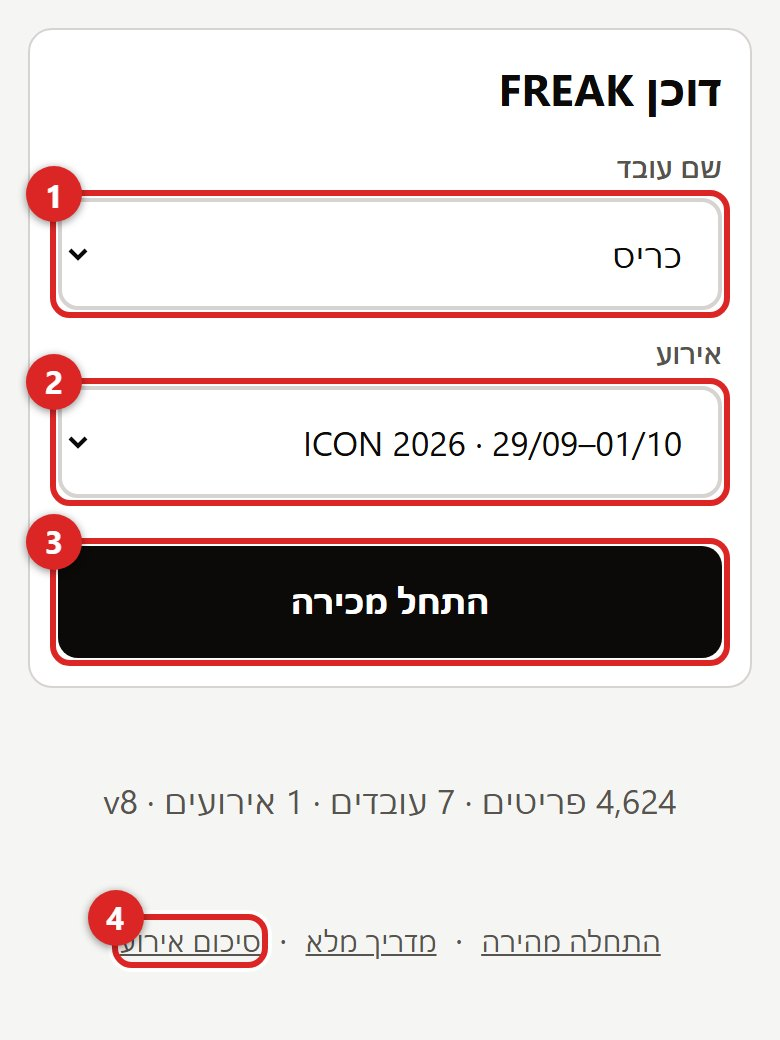
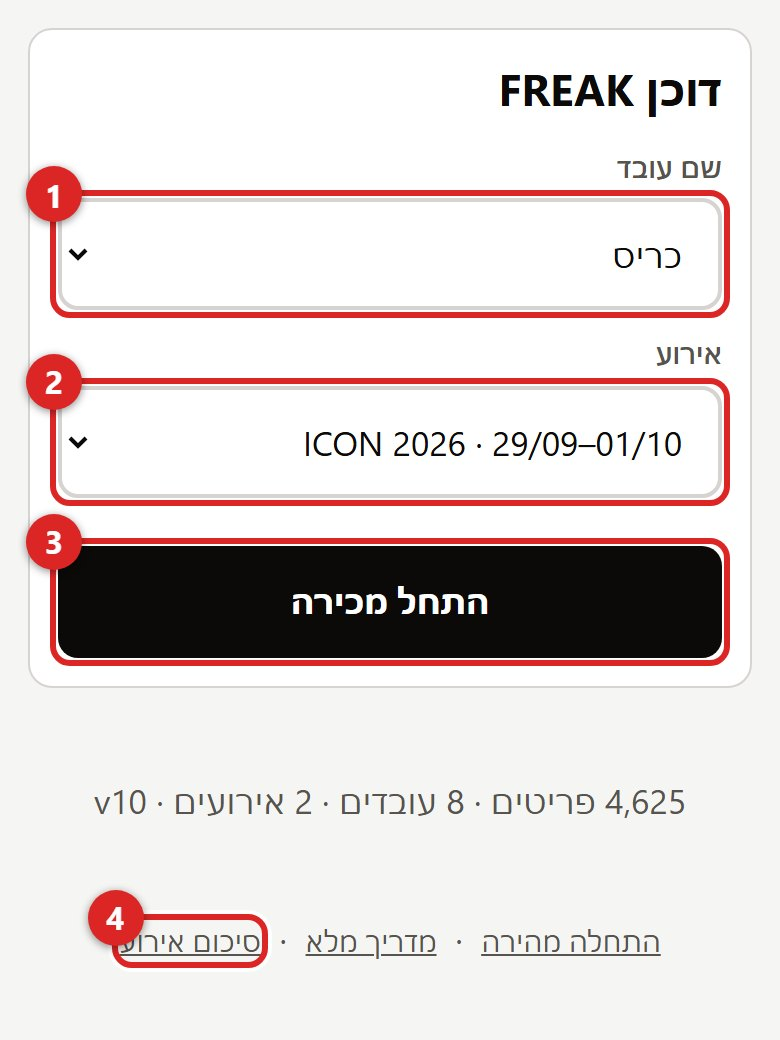
v10: guide chapter on corrections; the till retries its catalog patiently
- guide.html: new section 12 (find the sale, the three options, the return form) with
  three pictures; troubleshooting is now 13; a pointer from the main-screen and payment
  sections; quickstart.html gains the same pointer
- index.html: the catalog also carries the staff and event lists, so it is now retried
  in the background (8/20/45/60 s) with a plain status line instead of one 8 s attempt:
  a phone opened during a slow spell still gets today's events; BUILD v10, cache v10
- guide pictures regenerated (main screen shows the corrections button)
- README: the three new tabs and the corrections history

Changed region(s): [[0.2154, 0.7385, 0.8923, 0.8], [0.1231, 0.7385, 0.1846, 0.8]]

diff --git a/guide.html b/guide.html
@@ -86,7 +86,8 @@
         <li><a href="#s9">מה אומר הכפתור הצבעוני</a></li>
         <li><a href="#s10">להחליף עובד או אירוע</a></li>
         <li><a href="#s11">סוף האירוע (מנהלים)</a></li>
-        <li><a href="#s12">תקלות ופתרונות</a></li>
+        <li><a href="#s12">תיקון מכירה</a></li>
+        <li><a href="#s13">תקלות ופתרונות</a></li>
       </ol>
     </nav>
 
@@ -122,6 +123,7 @@
         <li><b>מצלמת הטלפון:</b> <kbd>הפעל מצלמה</kbd> (סעיף 4).</li>
         <li>הכפתור הצבעוני מראה אם המכירות נשלחו (סעיף 9).</li>
         <li>לחיצה על שם האירוע חוזרת למסך הפתיחה (סעיף 10).</li>
+        <li><b>טעות במכירה שכבר נסגרה?</b> <kbd>מכירות אחרונות · תיקון תשלום · החזרה</kbd> (סעיף 12).</li>
       </ol>
       <figure><img src="./guide/03-search.jpg" alt="חיפוש לפי שם"><figcaption>חיפוש לפי שם, ברקוד או קוד פריט</figcaption></figure>
       <ol class="steps">
@@ -195,6 +197,7 @@
         <li>מאוזן → <kbd>סיים מכירה</kbd>.</li>
       </ol>
       <p class="warn"><b>"אחר"</b> (ביט, העברה, החלפה, זיכוי) מחייב פירוט בשדה שנפתח. בלי פירוט אי אפשר לסיים.</p>
+      <p class="tip">הלקוח התחרט על אמצעי התשלום אחרי שסיימתם? לא מקלידים שוב. מתקנים את המכירה (סעיף 12).</p>
       <p class="tip">האשראי נסלק במסופון כרגיל. הקופה רק רושמת שהתשלום היה באשראי.</p>
     </section>
 
@@ -242,7 +245,34 @@
     </section>
 
     <section id="s12">
-      <h2><span class="n">12</span>תקלות ופתרונות</h2>
+      <h2><span class="n">12</span>תיקון מכירה: תשלום, החזרה, ביטול</h2>
+      <p class="lead">הלקוח שילם בסוף בדרך אחרת, החזיר מוצר, או שמכירה הוקלדה פעמיים. לא מקלידים מכירה חדשה: מתקנים את המקורית. שום דבר לא נמחק, וכל תיקון נרשם עם שם ושעה.</p>
+      <figure><img src="./guide/13-fix-list.jpg" alt="רשימת המכירות עם כפתור תיקון"><figcaption>רשימת המכירות. מהקופה מגיעים אליה בכפתור "מכירות אחרונות · תיקון תשלום · החזרה"</figcaption></figure>
+      <ol class="steps">
+        <li>מחפשים את המכירה לפי שם פריט, סכום או שעה. אפשר לבחור יום אחר או אירוע אחר, גם אירוע שכבר נגמר.</li>
+        <li>לוחצים <kbd>תיקון</kbd> ליד המכירה.</li>
+      </ol>
+      <figure><img src="./guide/14-fix-menu.jpg" alt="חלון התיקון"><figcaption>שלוש אפשרויות</figcaption></figure>
+      <ol class="steps">
+        <li>בוחרים מי מבצע את התיקון.</li>
+        <li><b>שינוי אמצעי תשלום:</b> הסכום נשאר. מחלקים אותו מחדש בין מזומן, אשראי ואחר.</li>
+        <li><b>החזרת מוצר:</b> בתמונה הבאה.</li>
+        <li><b>ביטול:</b> למכירה שהוקלדה בטעות או פעמיים. מבטלים את העותק המיותר. הוא נשאר רשום אבל לא נספר.</li>
+      </ol>
+      <figure><img src="./guide/15-fix-return.jpg" alt="החזרת מוצר"><figcaption>החזרת מוצר</figcaption></figure>
+      <ol class="steps">
+        <li>מסמנים כמה יחידות חזרו מכל פריט.</li>
+        <li>חזר למדף, או פגום ולא חזר למלאי.</li>
+        <li>מתי זה קרה: עכשיו, או תאריך אחר אם מתקנים בדיעבד.</li>
+        <li>איך הלקוח קיבל את הכסף: מזומן, זיכוי באשראי במסופון, או אחר (קרדיט חנות, ביט) עם פירוט.</li>
+        <li>שומרים. ההכנסות, המזומן והאשראי של אותו יום מתעדכנים, והפריט יורד מרשימת הכספיט אם חזר למדף.</li>
+      </ol>
+      <p class="tip">טעיתם בהחזרה? פותחים שוב <kbd>תיקון</kbd> על אותה מכירה ולוחצים <kbd>בטל את ההחזרה הזו</kbd>.</p>
+      <p class="warn">את הזיכוי בכרטיס האשראי עצמו עושים במסופון. כאן רק רושמים שהוא נעשה.</p>
+    </section>
+
+    <section id="s13">
+      <h2><span class="n">13</span>תקלות ופתרונות</h2>
       <table>
         <tr><th>מה קורה</th><th>מה עושים</th></tr>
         <tr><td>המצלמה לא נפתחת: "אין הרשאה"</td><td>בכרום: המנעול ליד הכתובת → הרשאות → מצלמה → אפשר. באייפון: הגדרות → ספארי → מצלמה → אפשר. אם זה לא עוזר מהאייקון, פתחו את הכתובת בספארי.</td></tr>
@@ -250,6 +280,7 @@
         <tr><td>הסריקה לא תופסת</td><td><kbd>החלף מצלמה</kbd>; התרחקו ל-20 ס״מ והגבירו זום; נקו את העדשה; פנס בחושך. בינתיים: אקדח ברקוד או חיפוש לפי שם.</td></tr>
         <tr><td>ברקוד נסרק אבל "פריט לא מזוהה"</td><td>חפשו לפי שם. אם אין: הזנה ידנית עם המחיר מהמדבקה (סעיף 6).</td></tr>
         <tr><td>המחיר במסך שונה מהמדבקה</td><td>הקלידו את המחיר הנכון בשדה המחיר. השינוי מסומן ומדווח.</td></tr>
+        <tr><td>הלקוח שילם אחרת, החזיר מוצר, או שמכירה הוקלדה פעמיים</td><td>לא מקלידים מכירה חדשה. מתקנים את המכירה המקורית (סעיף 12).</td></tr>
         <tr><td>"ממתין" הרבה זמן</td><td>לחצו על הכפתור. אם אין קליטה, זה ישלח לבד אחר כך. אל תמחקו כלום.</td></tr>
         <tr><td>"טוקן שגוי"</td><td>סגרו ופתחו את האפליקציה כדי לקבל עדכון. אם נשאר: למנהל.</td></tr>
         <tr><td>המסך "קפא"</td><td>סגרו ופתחו את האפליקציה. הסל והמכירות שממתינות נשמרים בטלפון.</td></tr>

diff --git a/index.html b/index.html
@@ -367,8 +367,8 @@ function fetchT(url, opts, ms) {
   return fetch(url, { ...opts, signal: ctl.signal }).finally(() => clearTimeout(t));
 }
 
-async function apiGet(action) {
-  const res = await fetchT(`${API_URL}?action=${encodeURIComponent(action)}&token=${encodeURIComponent(TOKEN)}`, {}, 8000);
+async function apiGet(action, ms) {
+  const res = await fetchT(`${API_URL}?action=${encodeURIComponent(action)}&token=${encodeURIComponent(TOKEN)}`, {}, ms || 8000);
   if (!res.ok) throw new Error('HTTP ' + res.status);
   return res.json();
 }
@@ -520,7 +520,7 @@ function toast(msg, ms) {
 /* ==================================================================
    Boot
    ================================================================== */
-const BUILD = 'v9';
+const BUILD = 'v10';
 
 window.addEventListener('load', async () => {
   if ('serviceWorker' in navigator) {
@@ -568,18 +568,31 @@ window.addEventListener('load', async () => {
   });
   flush();
 
-  try {
-    const res = await apiGet('catalog');
-    if (!res.ok) throw new Error(res.error || 'API error');
-    catalog = { version: res.version, rows: res.rows, staff: res.staff || [], events: res.events || [] };
-    save(LS.catalog, catalog);
-    indexCatalog();
-    renderGate();
-    $('g-status').textContent = flat.length.toLocaleString('he-IL') + ' פריטים · ' + (catalog.staff.length) + ' עובדים · ' + (catalog.events.length) + ' אירועים · ' + BUILD;
-  } catch (err) {
-    $('g-status').textContent = (flat.length
-      ? 'אין רשת — קטלוג שמור (' + flat.length.toLocaleString('he-IL') + ' פריטים)'
-      : 'טעינה נכשלה: ' + err.message + ' — בדוק API_URL ו-TOKEN') + ' · ' + BUILD;
+  // The catalog also carries the staff and event lists, so a phone that misses it shows
+  // yesterday's events. Google sometimes sits on a request for a minute (measured: an empty
+  // ping took 40 s). The first try is short — the saved catalog is already on screen and the
+  // till is usable — and then it keeps trying in the background, each time more patiently.
+  const waits = [8000, 20000, 45000, 60000];
+  const n = () => flat.length.toLocaleString('he-IL');
+  for (let i = 0; i < waits.length; i++) {
+    try {
+      const res = await apiGet('catalog', waits[i]);
+      if (!res.ok) throw new Error(res.error || 'API error');
+      catalog = { version: res.version, rows: res.rows, staff: res.staff || [], events: res.events || [] };
+      save(LS.catalog, catalog);
+      indexCatalog();
+      renderGate();
+      $('g-status').textContent = n() + ' פריטים · ' + (catalog.staff.length) + ' עובדים · ' + (catalog.events.length) + ' אירועים · ' + BUILD;
+      break;
+    } catch (err) {
+      const last = i === waits.length - 1 || !navigator.onLine;
+      $('g-status').textContent = (!navigator.onLine
+        ? (flat.length ? 'אין רשת — קטלוג שמור (' + n() + ' פריטים)' : 'אין רשת, והקטלוג עוד לא נטען בטלפון הזה')
+        : flat.length
+          ? (last ? 'השרת לא ענה — עובדים עם הקטלוג השמור (' + n() + ' פריטים)' : 'קטלוג שמור (' + n() + ' פריטים) · השרת איטי, מתעדכן…')
+          : (last ? 'הקטלוג לא נטען: השרת לא ענה. סגור ופתח את האפליקציה' : 'טוען קטלוג… השרת איטי, מנסה שוב')) + ' · ' + BUILD;
+      if (last) break;
+    }
   }
 });
 

diff --git a/quickstart.html b/quickstart.html
@@ -77,6 +77,7 @@
         <li><b>תשלום.</b> <kbd>השלם</kbd> ליד מזומן או אשראי ממלא את היתרה. חייב להיות <b class="ok">מאוזן</b> → <kbd>סיים מכירה</kbd>. "אחר" (ביט, החלפה) מחייב פירוט. האשראי נסלק במסופון כרגיל.</li>
         <li><b>הכפתור למעלה.</b> ראו למטה. כשיש עליו מספר: לא מוחקים את האפליקציה ולא מנקים את הדפדפן.</li>
         <li><b>מחליפים משמרת?</b> לוחצים על שם האירוע למעלה ובוחרים שם מחדש.</li>
+        <li><b>טעות במכירה שנסגרה?</b> הלקוח שילם אחרת, החזיר מוצר, או שהוקלד פעמיים: <kbd>מכירות אחרונות · תיקון תשלום · החזרה</kbd> מתחת לסל. לא מקלידים מכירה חדשה.</li>
       </ol>
     </div>
 

diff --git a/sw.js b/sw.js
@@ -23,7 +23,7 @@
  *
  * Bump CACHE on every release. The name is the invalidation.
  */
-const CACHE = 'freak-pos-v9';
+const CACHE = 'freak-pos-v10';
 
 const SHELL = [
   './',

diff --git a/README.md b/README.md
@@ -21,7 +21,9 @@ The till the shop takes to conventions. Three parts, one workbook.
 | `אירועים` | by hand, before the event | `שם אירוע · התחלה · סיום · מקום · פעיל · הערות`. The till offers events from 3 days before `התחלה` to the day after `סיום`; when none is current it offers the upcoming ones. `פעיל = לא` hides an event. |
 | `Sales`, `Sale_Lines` | the till | **Column order is a contract** — the inventory sheet (`FREAK_Inventory_Live`) reads both tabs by position every hour. Never reorder. |
 | `תיקוני_כספיט` | the report page | one row per item ticked as keyed into Caspit: `event · item_key · item_id · barcode · name · qty · done_by · done_at`. Unticking deletes the row. |
-| `Live Dashboard` | formulas | untouched. |
+| `Returns`, `Return_Lines` | the report page | one return or cancellation per row, linked to its sale by `sale_id`; `cancelled_at` marks one that was undone. Never edited by hand. |
+| `Tender_Changes` | the report page | what a sale's tender was before it was changed, who changed it and when. The sale row itself carries the current tender. |
+| `Live Dashboard` | formulas | untouched. **It does not know about returns** — the report page is the net figure. |
 
 ## Which items reach the phones
 
@@ -53,3 +55,4 @@ The token in `Code.gs`, `index.html` and `report.html` must match. It filters cr
 - 2026-09-28 v8: quick-start page; guide pictures redone (Chris as the staff name, real barcode in the camera picture, markers on the empty top-left corner and clamped to the frame, tighter crops).
 - 2026-09-30 (during ICON, till untouched): report page shows one day or the whole event from one sale list (`salesList` in `?action=report`, backend deployment version 6), sale-by-sale list with seller filter, money sold below list price, checklist rows reopen when a ticked item sells again. Rollout rule for the backend: `clasp push` → `clasp deploy` to a separate TEST deployment → verify → `clasp redeploy <live id> -V <n>` → `clasp undeploy <test id>`. Test: `tools/test/report_test.py [test-deployment-id]`.
 - 2026-09-30 evening: report page made tolerant of a slow Apps Script backend (measured: 1–5 s usually, 20–110 s now and then, with 0–4 s of our own work; an empty ping waited up to 40 s). One request instead of two, last report kept in the browser and drawn at once, three patient tries, plain-language status. Average discount per day / event / seller. Backend version 8: `ms` server timing in replies, catalog rows cached 10 min (`flush_cache` called by the morning job), workbook opened once per request, `report` without `event` picks today's event, `with_events=1` adds the lists.
+- 2026-10-02 v9/v10: corrections. `report.html` has a `תיקון` button on every sale (any event, any date): change of tender (total kept, old tender logged), return (lines and quantities, refund by cash / card on the terminal / other with a note, back on the shelf or not, dated now or retroactively), cancellation of a whole sale, undo of a return. Nothing is deleted. All report numbers are net: a return counts on the day it was processed, the original seller loses the revenue, a fully returned sale is not counted, a unit back on the shelf leaves the Caspit list. Every write is repeat-safe (one id per return form) and retried on a stalled reply, including a false `BAD_TOKEN` when Google re-dispatches a POST as a bare GET. The till links to that screen and now retries its catalog (8/20/45/60 s) so new events and staff reach a phone even when Google is slow. Backend version 9. Tests: `tools/test/fix_test.py [test-deployment-id]` (needs the test event; see its header), `apply_icon_fixes.py` records how the two ICON corrections were made.
